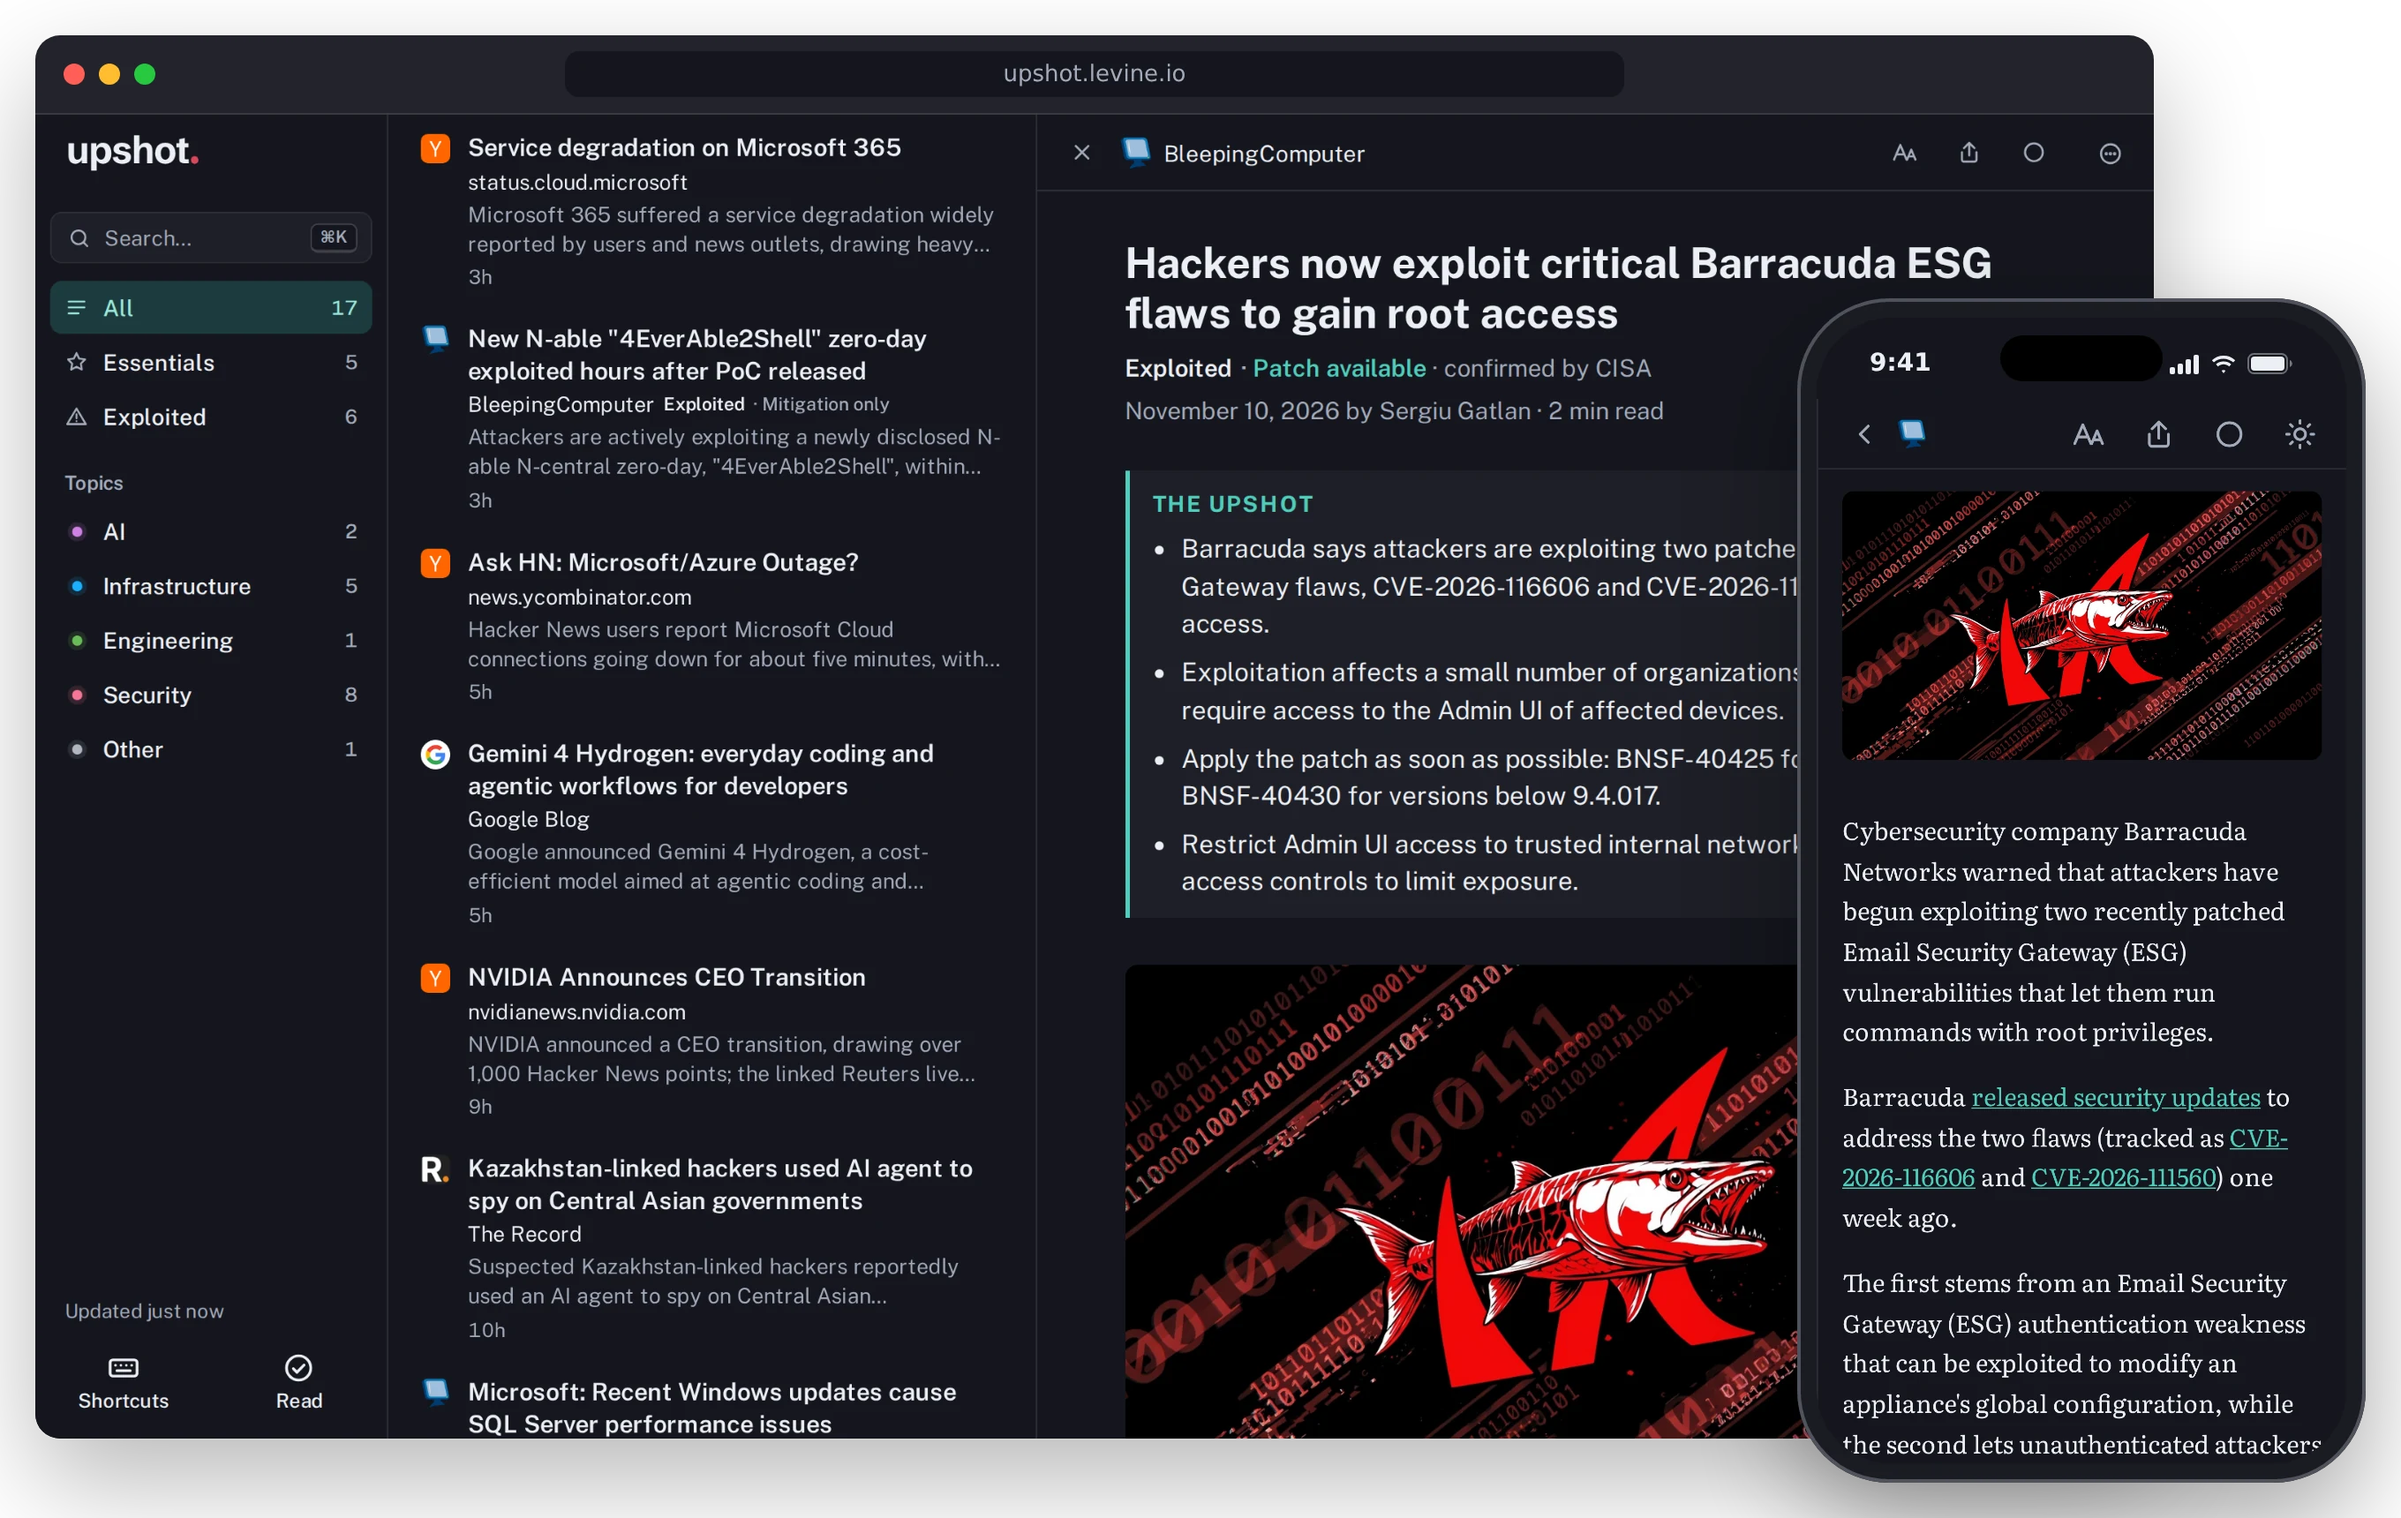
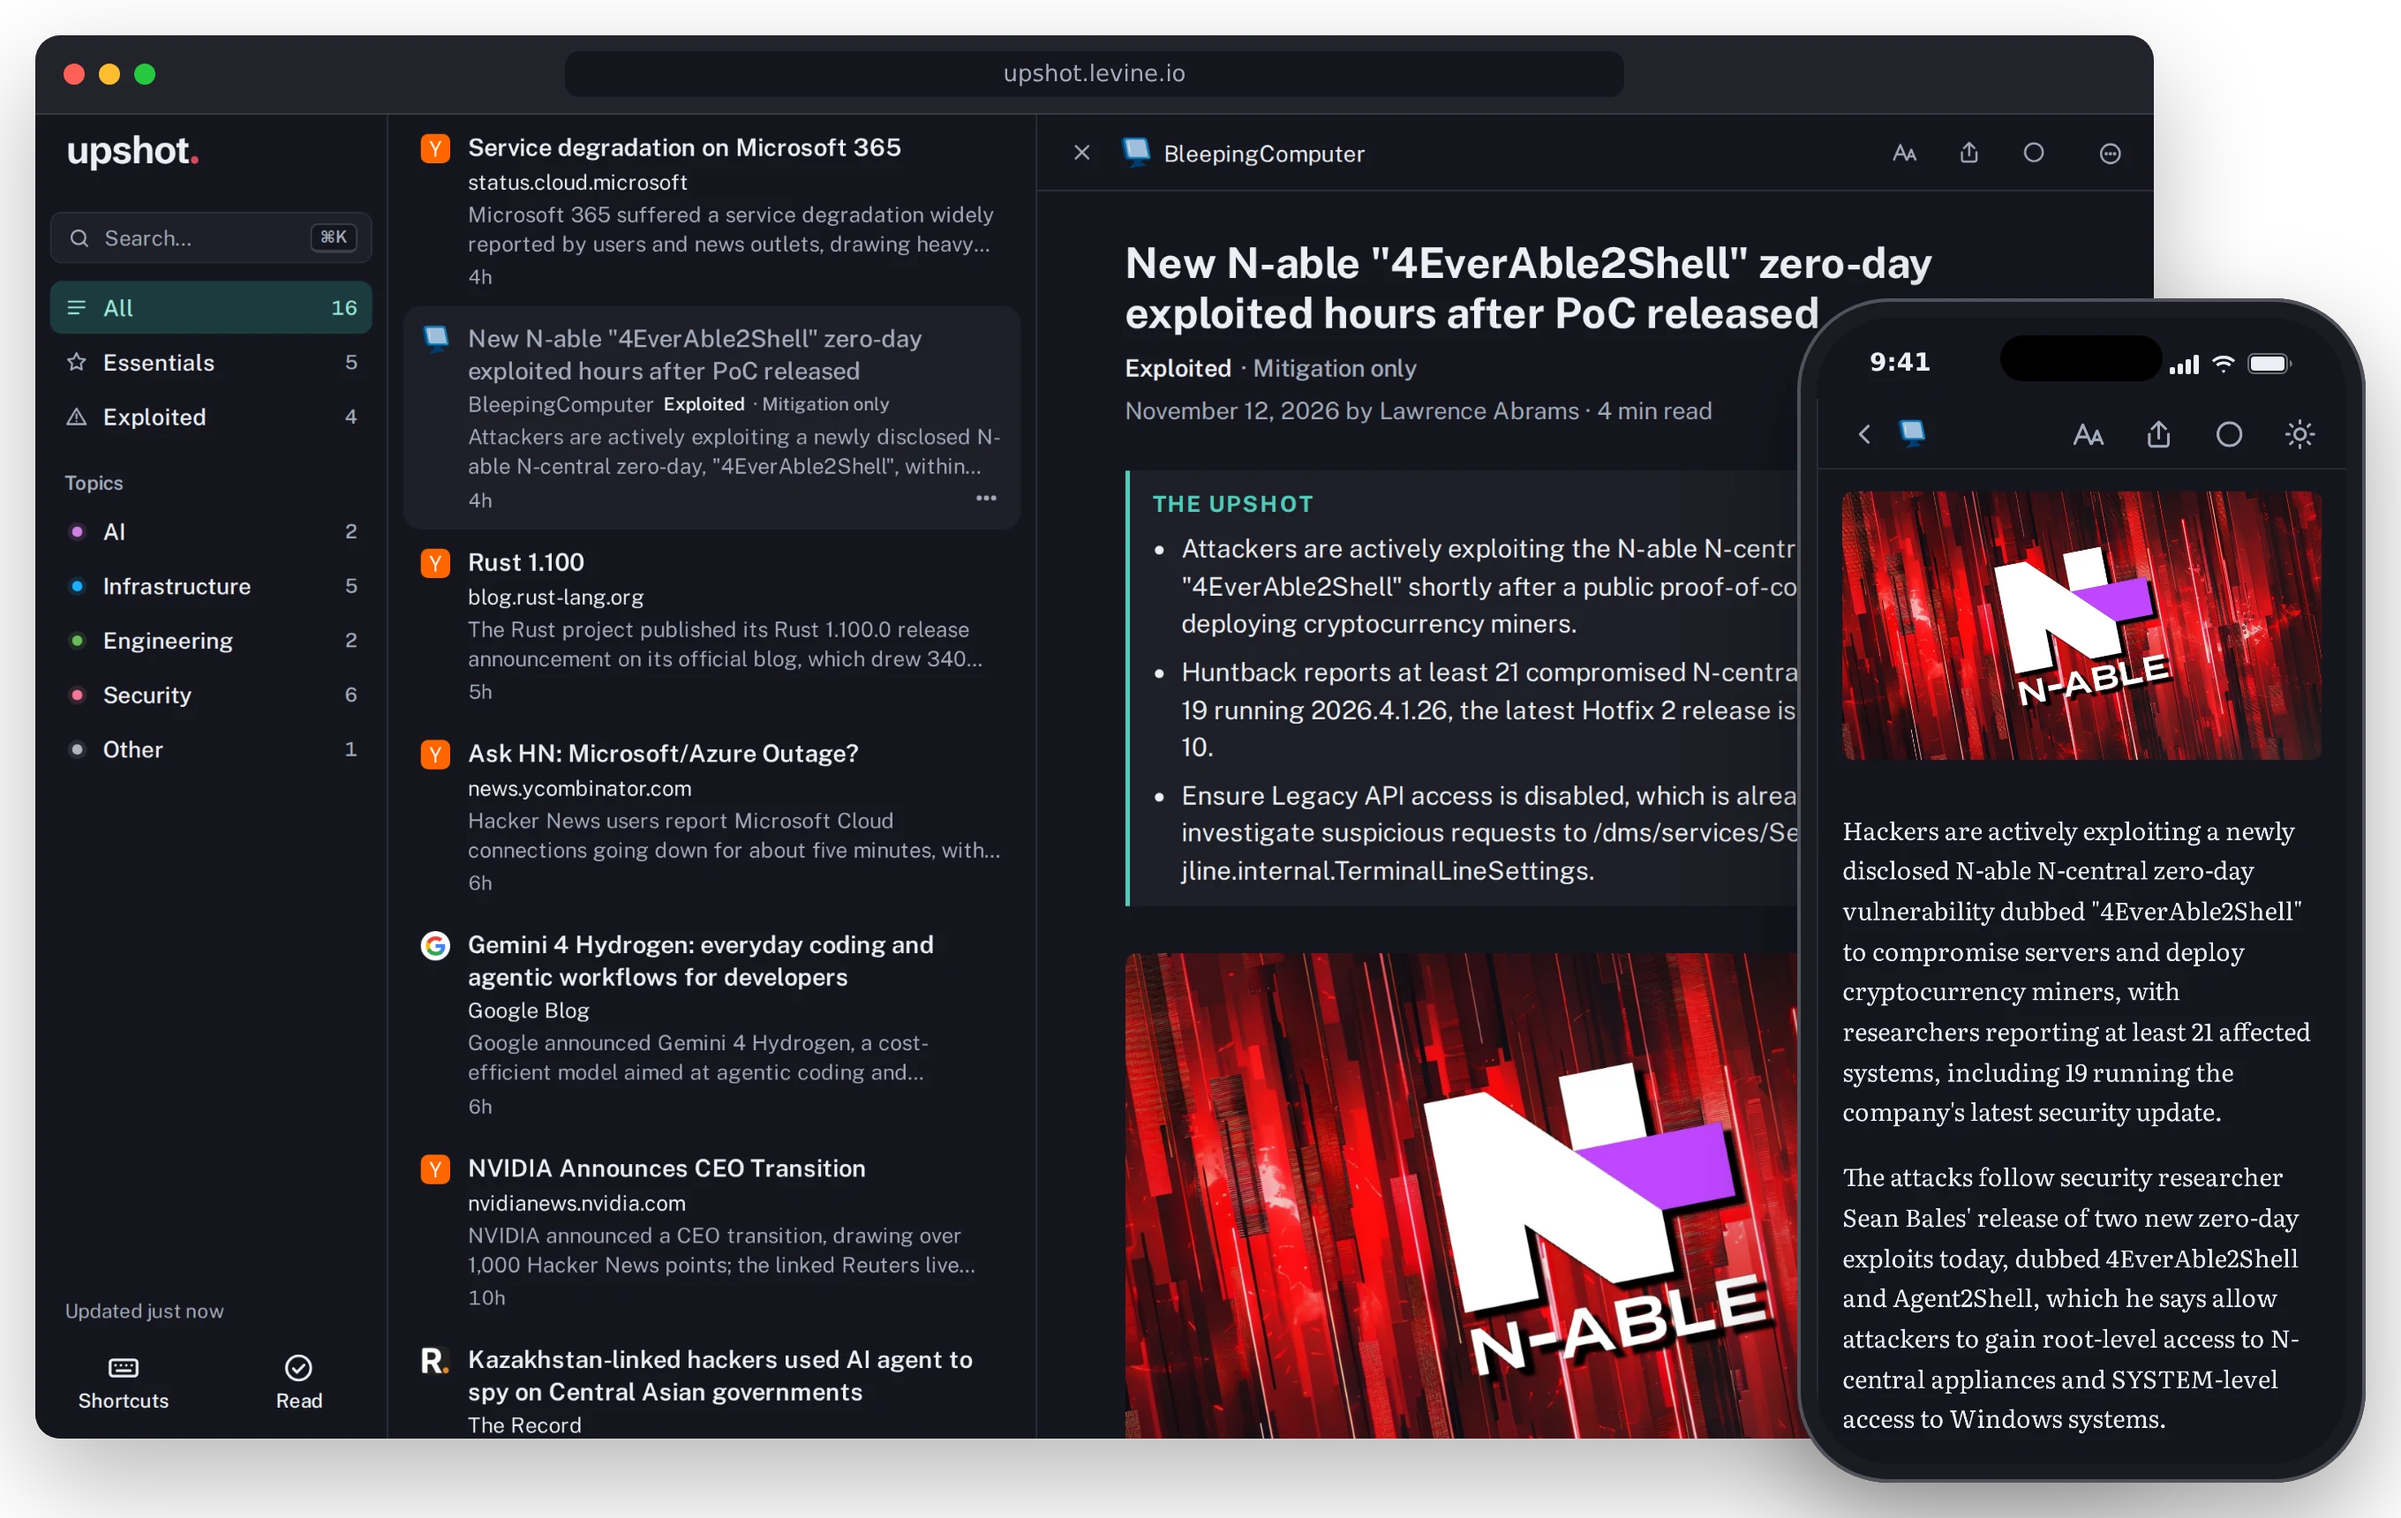
docs(readme): open a story whose row shows in the composites' list
The composites opened Barracuda, which was row 31 and two days old, while
the list sat at the top, so the open story had no row in view. They now
open BleepingComputer's 4EverAble2Shell story ("Exploited · Mitigation
only", with a picture), second in a fresh list and highlighted there.
Records the lesson in tasks/lessons.md.

diff --git a/tasks/lessons.md b/tasks/lessons.md
@@ -60,3 +60,12 @@
 **Rules:**
 - For any per-record state, list every way a record can reach it (on arrival, on a later build, by a backfill, via another record) and check that each path fills every field, before calling the evaluation done.
 - After a feature ships, look at its first real output on the live site, not only at the dry runs.
+
+## 2026-11-12 — A screenshot must show what it claims: check the selection is in view
+
+**Mistake:** The README composites opened the Barracuda story in the reader while the list was scrolled to the top. The story was row 31, two days old, so the composite showed an open story with no matching row in the list. The capture script printed "story is row 31" and it was ignored; the user caught it after the PR merged. The earlier composites had the same gap.
+
+**Rules:**
+- In any screenshot with a selection (an open story, a highlighted row), check that the selected item is visible and highlighted in the shot, not just open in the reader.
+- Read every number a capture script prints and ask what it implies for the image; "row 31" in a 900px window means off-screen.
+- Prefer a selection near the top of a fresh list: that is how the app is used, and it reads as live.
